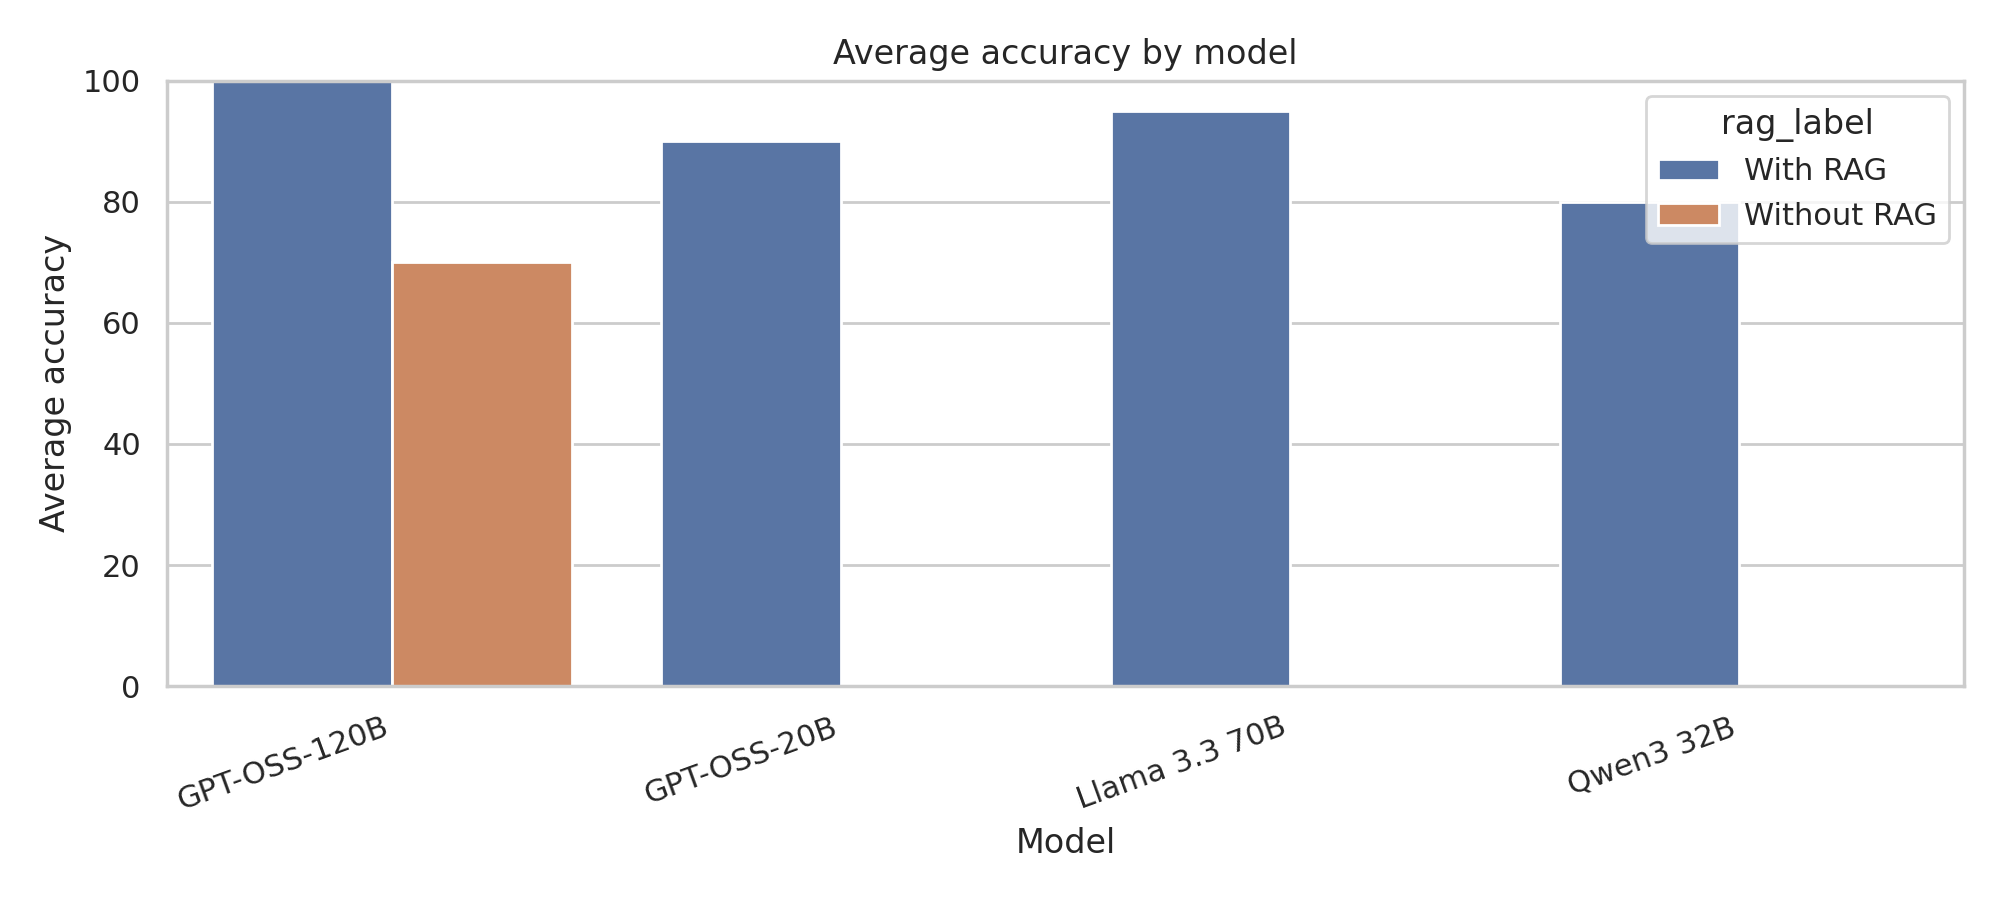
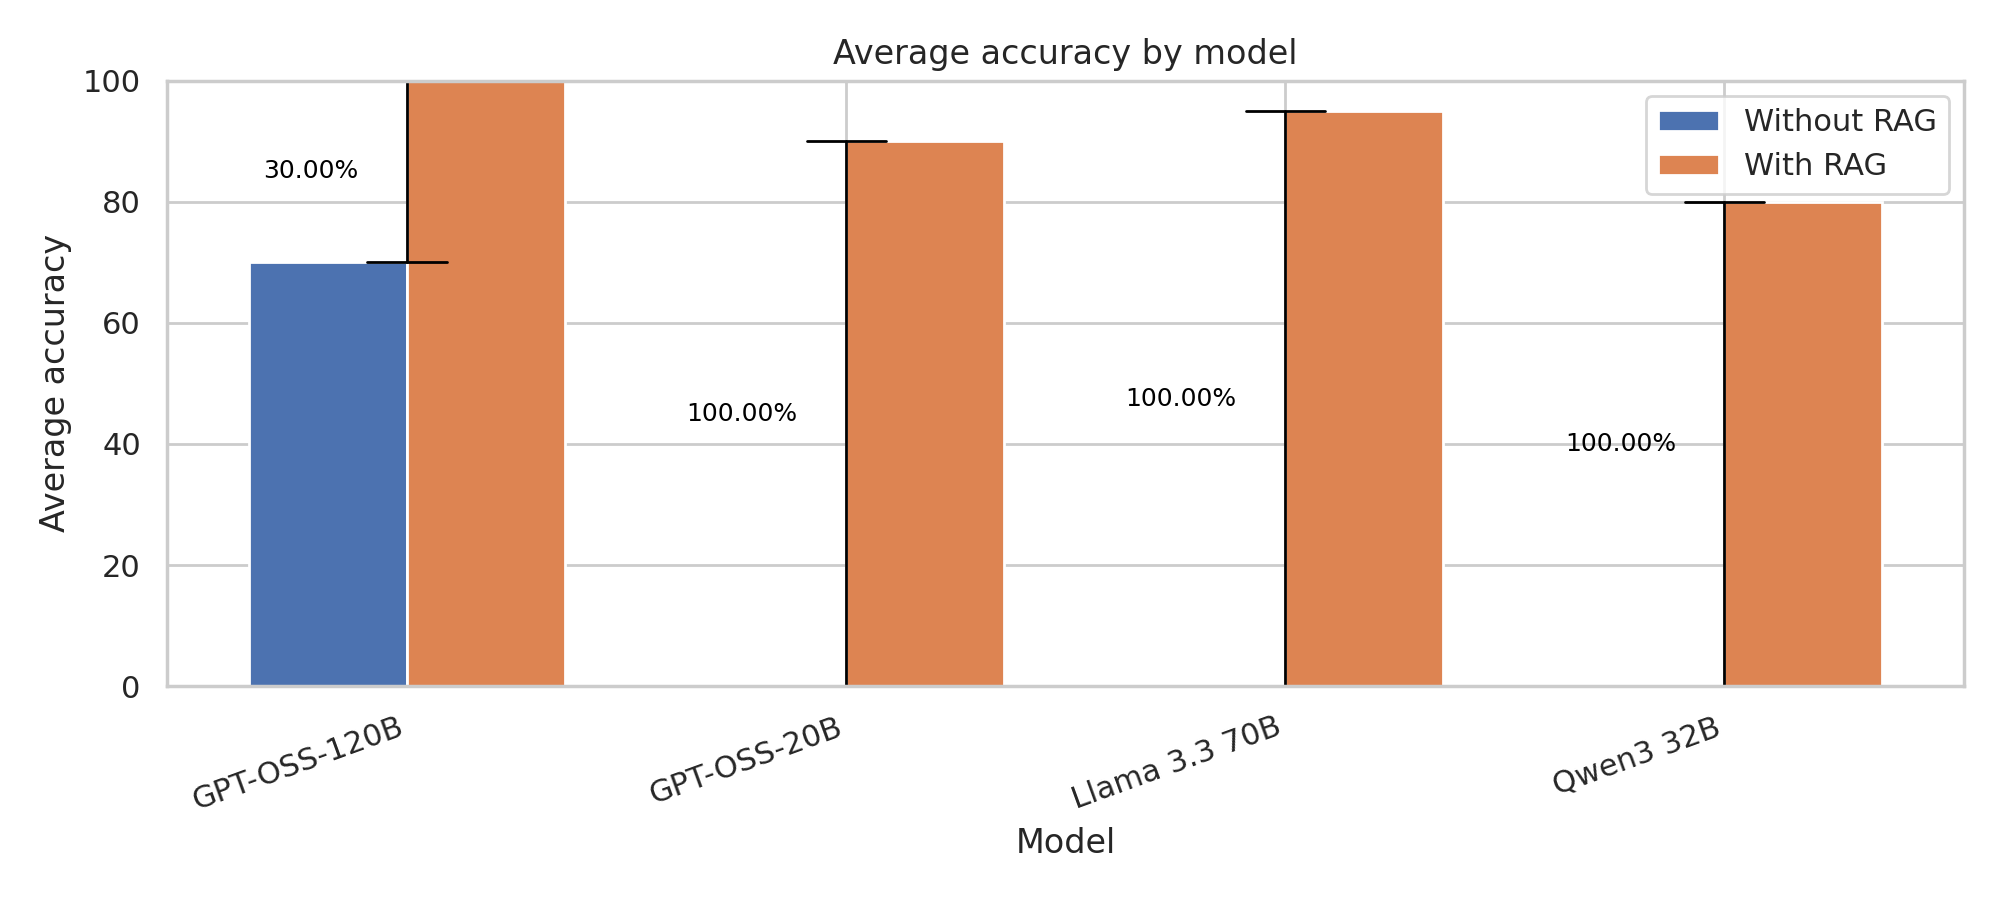
update eval

diff --git a/evaluation/analyze_eval_markdown.py b/evaluation/analyze_eval_markdown.py
@@ -27,6 +27,7 @@ import seaborn as sns
 
 # Matplotlib is used via seaborn; importing pyplot here keeps the script explicit.
 import matplotlib.pyplot as plt
+import numpy as np
 
 
 RAG_WITHOUT = "without_rag"
@@ -261,66 +262,164 @@ def plot_charts(avg_df: pd.DataFrame, out_dir: Path) -> None:
     if avg_df.empty:
         return
 
-    rag_label = {RAG_WITHOUT: "Without RAG", RAG_WITH: "With RAG"}
-    plot_df = avg_df.copy()
-    plot_df["rag_label"] = plot_df["rag"].map(rag_label)
-
     # Style: simple, report-friendly.
     sns.set_theme(style="whitegrid")
 
-    # --- Accuracy chart ---
-    plt.figure(figsize=(10, 4.5))
-    ax = sns.barplot(
-        data=plot_df,
-        x="model",
-        y="avg_accuracy",
-        hue="rag_label",
-        errorbar=None,
-    )
-    ax.set_title("Average accuracy by model")
-    ax.set_xlabel("Model")
-    ax.set_ylabel("Average accuracy")
-    ax.set_ylim(0, 100)
-    plt.xticks(rotation=20, ha="right")
-    plt.tight_layout()
-    plt.savefig(out_dir / "avg_accuracy_by_model.png", dpi=200)
-    plt.close()
+    rag_label = {RAG_WITHOUT: "Without RAG", RAG_WITH: "With RAG"}
 
-    # --- Response time chart (linear) ---
-    plt.figure(figsize=(10, 4.5))
-    ax = sns.barplot(
-        data=plot_df,
-        x="model",
-        y="avg_response_time_ms",
-        hue="rag_label",
-        errorbar=None,
-    )
-    ax.set_title("Average response time by model")
-    ax.set_xlabel("Model")
-    ax.set_ylabel("Average response time (ms)")
-    plt.xticks(rotation=20, ha="right")
-    plt.tight_layout()
-    plt.savefig(out_dir / "avg_response_time_by_model.png", dpi=200)
-    plt.close()
+    def _plot_grouped_bars_with_pct_diff(
+        *,
+        df: pd.DataFrame,
+        value_col: str,
+        title: str,
+        ylabel: str,
+        out_path: Path,
+        ylim: tuple[float, float] | None = None,
+        yscale: str | None = None,
+        diff_metric: str = "pct_diff",
+        label_decimals: int = 2,
+    ) -> None:
+        """
+        Plot grouped bars (without vs with RAG per model) and annotate difference.
 
-    # --- Response time chart (log scale) ---
+        diff_metric:
+        - "pct_change": ((with - without) / without) * 100   (can be undefined if without==0)
+        - "pct_diff"  : (|with - without| / max(with, without)) * 100  (always defined unless both 0)
+
+        The annotation is drawn as a vertical "ruler" between the two bars (like your screenshot).
+        """
+
+        # Wide format: index=model, cols=rag modes.
+        wide = df.pivot(index="model", columns="rag", values=value_col)
+        models = list(wide.index)
+
+        without_vals = wide.get(RAG_WITHOUT)
+        with_vals = wide.get(RAG_WITH)
+
+        x = np.arange(len(models))
+        width = 0.36
+
+        fig, ax = plt.subplots(figsize=(10, 4.5))
+
+        b1 = ax.bar(
+            x - width / 2,
+            without_vals,
+            width,
+            label=rag_label[RAG_WITHOUT],
+            color=sns.color_palette()[0],
+        )
+        b2 = ax.bar(
+            x + width / 2,
+            with_vals,
+            width,
+            label=rag_label[RAG_WITH],
+            color=sns.color_palette()[1],
+        )
+
+        ax.set_title(title)
+        ax.set_xlabel("Model")
+        ax.set_ylabel(ylabel)
+        ax.set_xticks(x)
+        ax.set_xticklabels(models, rotation=20, ha="right")
+        ax.legend()
+
+        if yscale:
+            ax.set_yscale(yscale)
+        if ylim is not None:
+            ax.set_ylim(*ylim)
+
+        # Draw vertical "ruler" between each pair of bars + label.
+        # We compute positions from the bar containers (reliable even if ordering changes).
+        for rect_without, rect_with, v_without, v_with in zip(
+            b1.patches, b2.patches, without_vals, with_vals, strict=False
+        ):
+            if v_without is None or v_with is None or pd.isna(v_without) or pd.isna(v_with):
+                continue
+            v_without_f = float(v_without)
+            v_with_f = float(v_with)
+
+            # Compute label value
+            label: str | None = None
+            if diff_metric == "pct_change":
+                if v_without_f == 0.0:
+                    label = None
+                else:
+                    diff_pct = (v_with_f - v_without_f) / v_without_f * 100.0
+                    label = f"{diff_pct:+.{label_decimals}f}%"
+            elif diff_metric == "pct_diff":
+                denom = max(abs(v_with_f), abs(v_without_f))
+                if denom == 0.0:
+                    label = None
+                else:
+                    diff_pct = abs(v_with_f - v_without_f) / denom * 100.0
+                    label = f"{diff_pct:.{label_decimals}f}%"
+            else:
+                raise ValueError(f"Unknown diff_metric: {diff_metric}")
+
+            x1 = rect_without.get_x() + rect_without.get_width() / 2
+            x2 = rect_with.get_x() + rect_with.get_width() / 2
+            x_mid = (x1 + x2) / 2
+
+            y1 = rect_without.get_height()
+            y2 = rect_with.get_height()
+            y_low, y_high = sorted([y1, y2])
+
+            # Ruler caps size (a small fraction of bar width)
+            cap = (x2 - x1) * 0.25
+
+            # Vertical ruler line and caps
+            ax.plot([x_mid, x_mid], [y_low, y_high], color="black", linewidth=1)
+            ax.plot([x_mid - cap, x_mid + cap], [y_low, y_low], color="black", linewidth=1)
+            ax.plot([x_mid - cap, x_mid + cap], [y_high, y_high], color="black", linewidth=1)
+
+            # Label next to the ruler, centered vertically
+            if label is not None:
+                ax.text(
+                    x_mid - cap - 0.02,
+                    (y_low + y_high) / 2,
+                    label,
+                    ha="right",
+                    va="center",
+                    fontsize=9,
+                    color="black",
+                )
+
+        fig.tight_layout()
+        fig.savefig(out_path, dpi=200)
+        plt.close(fig)
+
+    _plot_grouped_bars_with_pct_diff(
+        df=avg_df,
+        value_col="avg_accuracy",
+        title="Average accuracy by model",
+        ylabel="Average accuracy",
+        out_path=out_dir / "avg_accuracy_by_model.png",
+        ylim=(0, 100),
+        diff_metric="pct_diff",
+        label_decimals=2,
+    )
+
+    _plot_grouped_bars_with_pct_diff(
+        df=avg_df,
+        value_col="avg_response_time_ms",
+        title="Average response time by model",
+        ylabel="Average response time (ms)",
+        out_path=out_dir / "avg_response_time_by_model.png",
+        diff_metric="pct_diff",
+        label_decimals=2,
+    )
+
     # Helpful when one model is a big outlier (prevents squashing other bars).
-    plt.figure(figsize=(10, 4.5))
-    ax = sns.barplot(
-        data=plot_df,
-        x="model",
-        y="avg_response_time_ms",
-        hue="rag_label",
-        errorbar=None,
+    _plot_grouped_bars_with_pct_diff(
+        df=avg_df,
+        value_col="avg_response_time_ms",
+        title="Average response time by model (log scale)",
+        ylabel="Average response time (ms, log)",
+        out_path=out_dir / "avg_response_time_by_model_log.png",
+        yscale="log",
+        diff_metric="pct_diff",
+        label_decimals=2,
     )
-    ax.set_yscale("log")
-    ax.set_title("Average response time by model (log scale)")
-    ax.set_xlabel("Model")
-    ax.set_ylabel("Average response time (ms, log)")
-    plt.xticks(rotation=20, ha="right")
-    plt.tight_layout()
-    plt.savefig(out_dir / "avg_response_time_by_model_log.png", dpi=200)
-    plt.close()
 
 
 def main() -> int:
